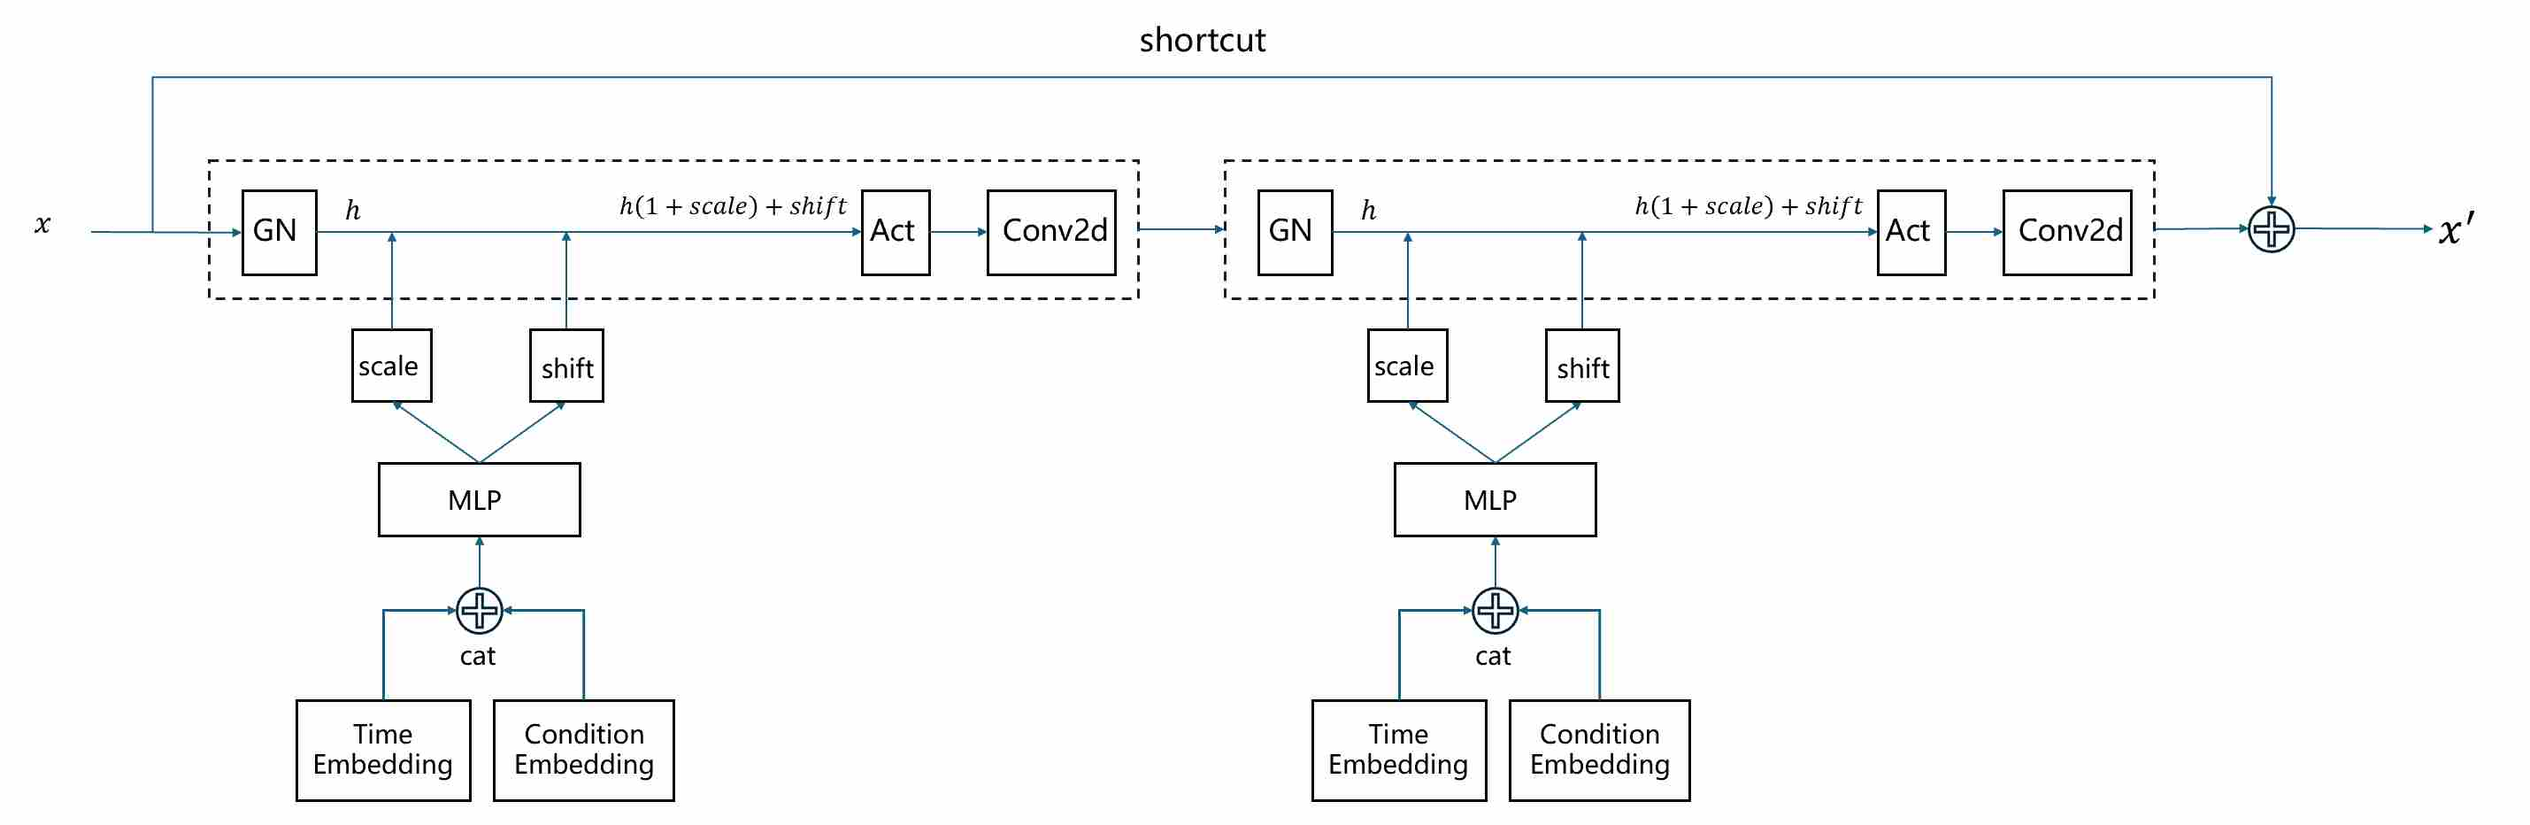
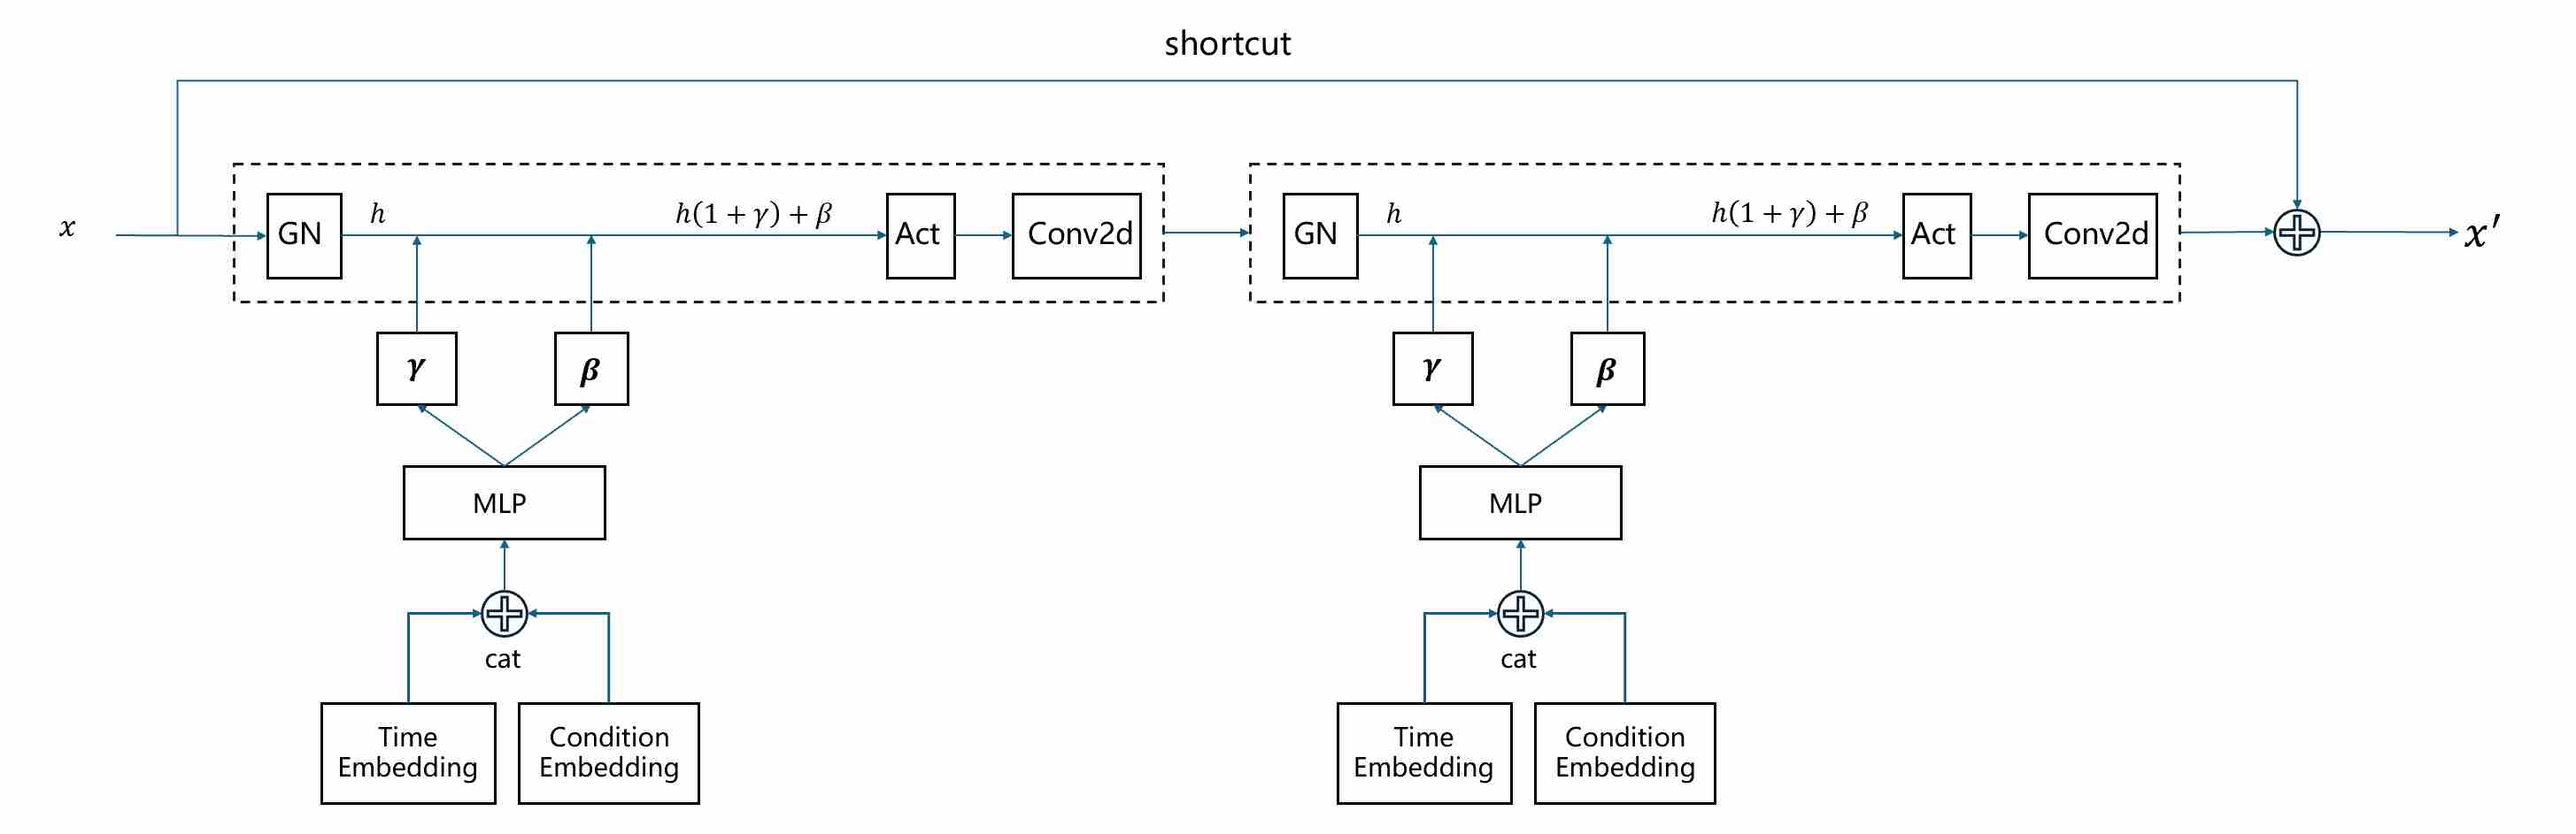
update

diff --git a/_posts/2025-03-02-blog-post.md b/_posts/2025-03-02-blog-post.md
@@ -218,8 +218,7 @@ The most straightforward but highly effective change was scaling up the model. T
 - Wider Channels: The base channel count was increased (e.g., from 128 to 256), and the channel multipliers for deeper layers were adjusted, resulting in a much wider network.
 - More Residual Blocks: The number of residual blocks per resolution level was increased, making the network deeper.
 
-- **Why it helps:** Deeper and wider blocks improve gradient signal-to-noise in large models, allowing stable optimization even at 256×256 and 512×512 resolutions (ImageNet-scale).
-- **Stability mechanism:** Residual pathways and GroupNorm ensure that gradients neither explode nor vanish as they traverse deeper layers, while increased channel width reduces information bottlenecks.
+**Why it helps:** A larger model capacity allows the network to learn more complex and subtle details of the data distribution, leading to a direct improvement in sample fidelity.
 
 ### <a id="section2.2.2">Multi-Resolution Self-Attention</a>
 
@@ -227,9 +226,10 @@ While DDPM's UNet used self-attention, it was typically applied only at a single
 
 In ADM, Self-attention blocks were added at multiple resolutions (e.g., 32x32, 16x16, and 8x8). Additionally, the number of attention heads was increased.
 
-- Attention at higher resolutions (32x32) helps capture relationships between medium-sized features and textures.
+- Attention at higher resolutions (32x32) helps capture relationships between medium-sized features and textures; 
 - Attention at lower resolutions (8x8) helps coordinate the global structure and semantic layout of the image.
-This multi-scale approach gives the model a more holistic understanding of the image, preventing structural inconsistencies and improving overall coherence.
+
+**Why it helps:** This multi-scale approach gives the model a more holistic understanding of the image, preventing structural inconsistencies and improving overall coherence.
 
 ### <a id="section2.2.3">Conditioning via Adaptive Group Normalization (AdaGN)</a> 
 
@@ -237,11 +237,11 @@ This is arguably the most significant architectural contribution of ADM. It fund
 
 - In DDPM: The time embedding was processed by an MLP and then simply added to the feature maps within each residual block. This acts as a global bias, which is a relatively weak form of conditioning.
 
-- In ADM (AdaGN): The model learns to modulate the activations using the conditional information. The process is as follows: a). The timestep embedding and the class embedding (for class-conditional models) are combined into a single conditioning vector; b). This vector is passed through a linear layer to predict two new vectors: a scale ($\gramma$) and a shift ($\beta$) parameter for each channel. c). Within each residual block, the feature map undergoes Group Normalization, and then its output is modulated by these predicted parameters.
+- In ADM (AdaGN) [^film]: The model learns to modulate the activations using the conditional information. The process is as follows: a). The timestep embedding and the class embedding (for class-conditional models) are combined into a single conditioning vector; b). This vector is passed through a linear layer to predict two new vectors: a scale ($\gamma$) and a shift ($\beta$) parameter for each channel. c). Within each residual block, the feature map undergoes Group Normalization, and then its output is modulated by these predicted parameters.
 
 ![time embedding injection](/images/posts/2025-03-02-blog-post/adagn.jpg)
 
-- **Why it helps:** Modulation is a much more powerful mechanism than addition. It allows the conditional information to control the mean and variance of each feature map on a channel-by-channel basis. This gives the model fine-grained control over the generated features, dramatically improving its ability to adhere to the given conditions (i.e., generating a specific class at a specific noise level).
+**Why it helps:** Modulation is a much more powerful mechanism than addition. It allows the conditional information to control the mean and variance of each feature map on a channel-by-channel basis. This gives the model fine-grained control over the generated features, dramatically improving its ability to adhere to the given conditions (i.e., generating a specific class at a specific noise level).
 
 ### <a id="section2.2.4">Refined Downsampling and Upsampling Operators</a>
 
